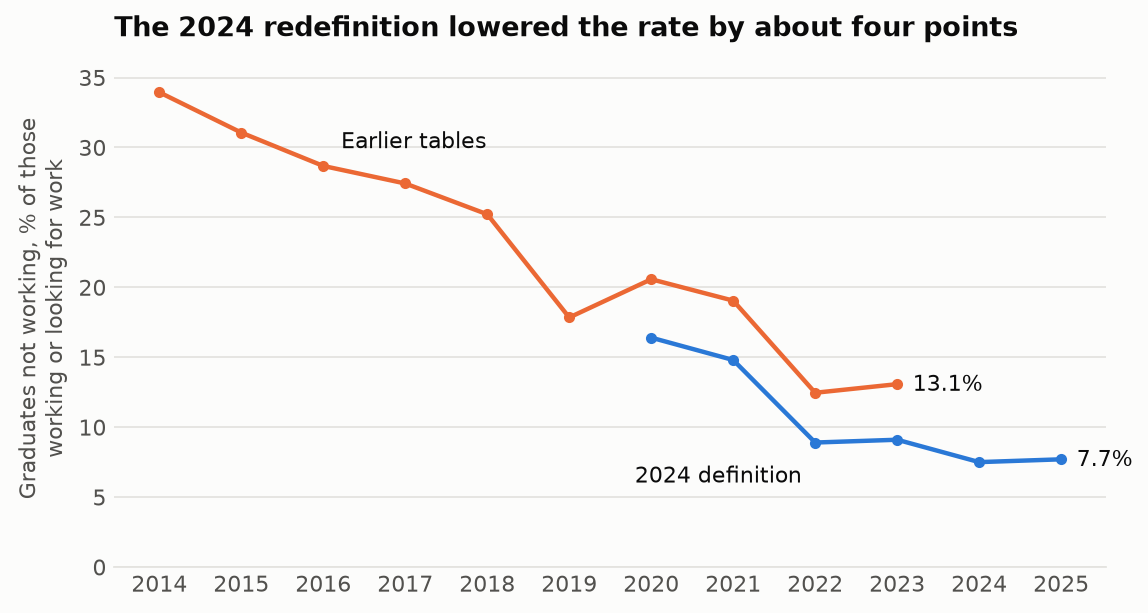
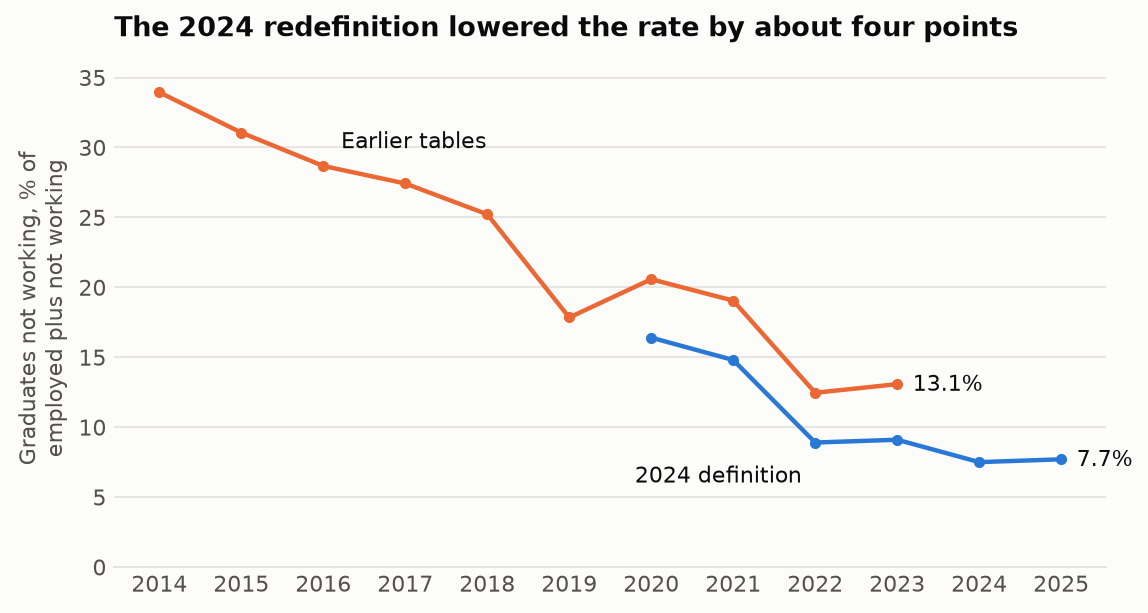
Correct the definition-change figures and band description
The 13.1% 2023 rate was computed here, not published; the 2023 report put
10.2% of respondents as not working. Also: gap range is 3.6-4.2 points, the
national figure's y-label now matches how the earlier series is computed,
the README states the band's backtest coverage on each series, the top-three
claim notes Social Sciences' 3 in 10,000, and tied ranks use 'min'.
Found by an adversarial review; result tables are unchanged.

Changed region(s): [[0.0, 0.186, 0.061, 0.8059]]

diff --git a/scripts/make_figures.py b/scripts/make_figures.py
@@ -86,7 +86,7 @@ def national() -> None:
         ax.annotate(f"{series.iloc[-1]:.1f}%", (series.index[-1], series.iloc[-1]), xytext=(7, -3), textcoords="offset points", color=INK)
     ax.set_ylim(0, 37)
     ax.set_xticks(range(2014, 2026))
-    ax.set_ylabel("Graduates not working, % of those\nworking or looking for work")
+    ax.set_ylabel("Graduates not working, % of\nemployed plus not working")
     ax.set_title("The 2024 redefinition lowered the rate by about four points")
     save(fig, "national_two_definitions.png")
 

diff --git a/scripts/analyse.py b/scripts/analyse.py
@@ -43,7 +43,7 @@ def main() -> None:
     loadings, explained = ix.pca_weights(comp)
     ranks = ix.rank_uncertainty(score)
     table = comp.add_prefix("raw_").join(score.add_prefix("score_")).join(risk).join(ranks)
-    table["rank"] = table["risk_index"].rank(ascending=False).astype(int)
+    table["rank"] = table["risk_index"].rank(ascending=False, method="min").astype(int)
     table.insert(0, "label", table.index.map(pn.LABELS))
     table = table.sort_values("rank")
     table.index.name = "field"

diff --git a/README.md b/README.md
@@ -11,11 +11,11 @@ The project began as a plan to forecast which individual degree programmes would
 ## Findings
 
 1. **No field is close to failing.** In 2025 every field had at least 88% of its labour-force graduates in work. The government's stated review threshold (employability under 30%) is not approached by any field.
-2. **Four fields sit at the risky end on most measures:** Services, Agriculture & Veterinary, Education, and Arts & Humanities. Which of them ranks first depends on the weights. Under 10,000 random weightings, the only other field that ever reaches the top three is Business & Law (25% of weightings).
+2. **Four fields sit at the risky end on most measures:** Services, Agriculture & Veterinary, Education, and Arts & Humanities. Which of them ranks first depends on the weights. Under 10,000 random weightings, the only other field that reaches the top three more than a handful of times is Business & Law (25% of weightings; Social Sciences does in 3 of 10,000).
 3. **Three fields are consistently safest:** Engineering, Health, and ICT stay in the bottom four in at least 90% of the random weightings.
 4. **The fields differ more in job quality than in finding work.** The not-working rate (2023-2025 average) spans 5% to 12% across fields. The share of employed graduates in jobs below skilled level spans 12% (Health) to 59% (Services), and the share of employed degree holders earning RM2,000 or less spans 14% (ICT) to 63% (Education).
 5. **The best forecast is "no change".** With six yearly points per field, assuming next year equals this year beat every trend method on the current series. Forecasts to 2026-2027 are therefore flat with wide bands. A 2030 forecast would not be credible and is not given.
-6. **A headline trap.** The Ministry changed its definition in 2024. Reading the published tables end to end shows the not-working rate falling from 13.1% (2023) to 7.5% (2024); on a like-for-like basis the fall was 9.1% to 7.5%.
+6. **A headline trap.** The Ministry changed its definition in 2024. Reading the published tables end to end, 10.2% of 2023 respondents were not working against 7.5% of the 2024 labour force, but those are different bases. On the 2024 definition, which the Ministry restated back to 2020, the fall was 9.1% to 7.5%.
 
 ![Field Risk Index](figures/risk_index.png)
 
@@ -23,7 +23,7 @@ The project began as a plan to forecast which individual degree programmes would
 
 Until 2023 the tracer tables counted every graduate who was not working, studying, training or waiting for a placement as "not working". From 2024 the Ministry aligned with the labour-force definition used by DOSM and the ILO: Graduate Employment (GE) is employed graduates as a share of graduates in the labour force, and graduates who are not looking for work are left out.
 
-The Ministry's 2024 tracer report restates 2020-2023 on the new definition, by field (Table 8h). That gives a consistent six-year series, 2020-2025, which is what the index and forecasts use. The earlier tables (2014-2023) are kept as a separate series and never joined to it. Over the four years where both exist, the earlier tables run 3.6 to 4.3 points higher nationally.
+The Ministry's 2024 tracer report restates 2020-2023 on the new definition, by field (Table 8h). That gives a consistent six-year series, 2020-2025, which is what the index and forecasts use. The earlier tables (2014-2023) are kept as a separate series and never joined to it. Over the four years where both exist, the earlier tables, taken as not working over employed plus not working, run 3.6 to 4.2 points higher nationally.
 
 ![National rate under both definitions](figures/national_two_definitions.png)
 
@@ -85,7 +85,7 @@ Five simple methods were compared by forecasting from every possible origin year
 
 Last value wins on the series being forecast, so it is used. Drift methods win on the earlier tables only because that window is dominated by one long fall; extrapolating it forward would assume the post-pandemic recovery repeats every year. ARIMA and Prophet, named in the original plan, were not fitted: six observations cannot identify their parameters.
 
-The band around each forecast is the 80th percentile of the method's absolute backtest error at the same horizon, pooled across fields and across both series. Including the earlier tables makes the band wider, because they contain the 2020 downturn and the 2022 recovery. The evidence behind it is thin: five forecast origins at one year ahead and four at two, and fields move together within a year, so the 54 and 36 errors are far from independent.
+The band around each forecast is the 80th percentile of the method's absolute backtest error at the same horizon, pooled across fields and across both series. Including the earlier tables makes the band wider, because they contain the 2020 downturn and the 2022 recovery. On the series being forecast the band is conservative: it contained 93% of the backtest errors one year ahead and all of them two years ahead (56-63% on the earlier tables). The evidence behind it is thin: five forecast origins at one year ahead and four at two, and fields move together within a year, so the 54 and 36 errors are far from independent.
 
 | Field | 2025 actual | 2026 forecast (80% band) | 2026 under a repeat of 2020 |
 |---|---|---|---|

diff --git a/docs/policy_brief.md b/docs/policy_brief.md
@@ -26,4 +26,4 @@
 
 ## Caution on headline figures
 
-The Ministry changed its employment definition in 2024. Comparing the published 2023 and 2024 tables directly overstates the improvement: the like-for-like change in the not-working rate was 9.1% to 7.5%, not 13.1% to 7.5%.
+The Ministry changed its employment definition in 2024. Comparing the published 2023 and 2024 tables directly overstates the improvement: they put 10.2% of 2023 respondents and 7.5% of the 2024 labour force as not working, which are different bases. On the 2024 definition, restated for 2023, the change was 9.1% to 7.5%.
